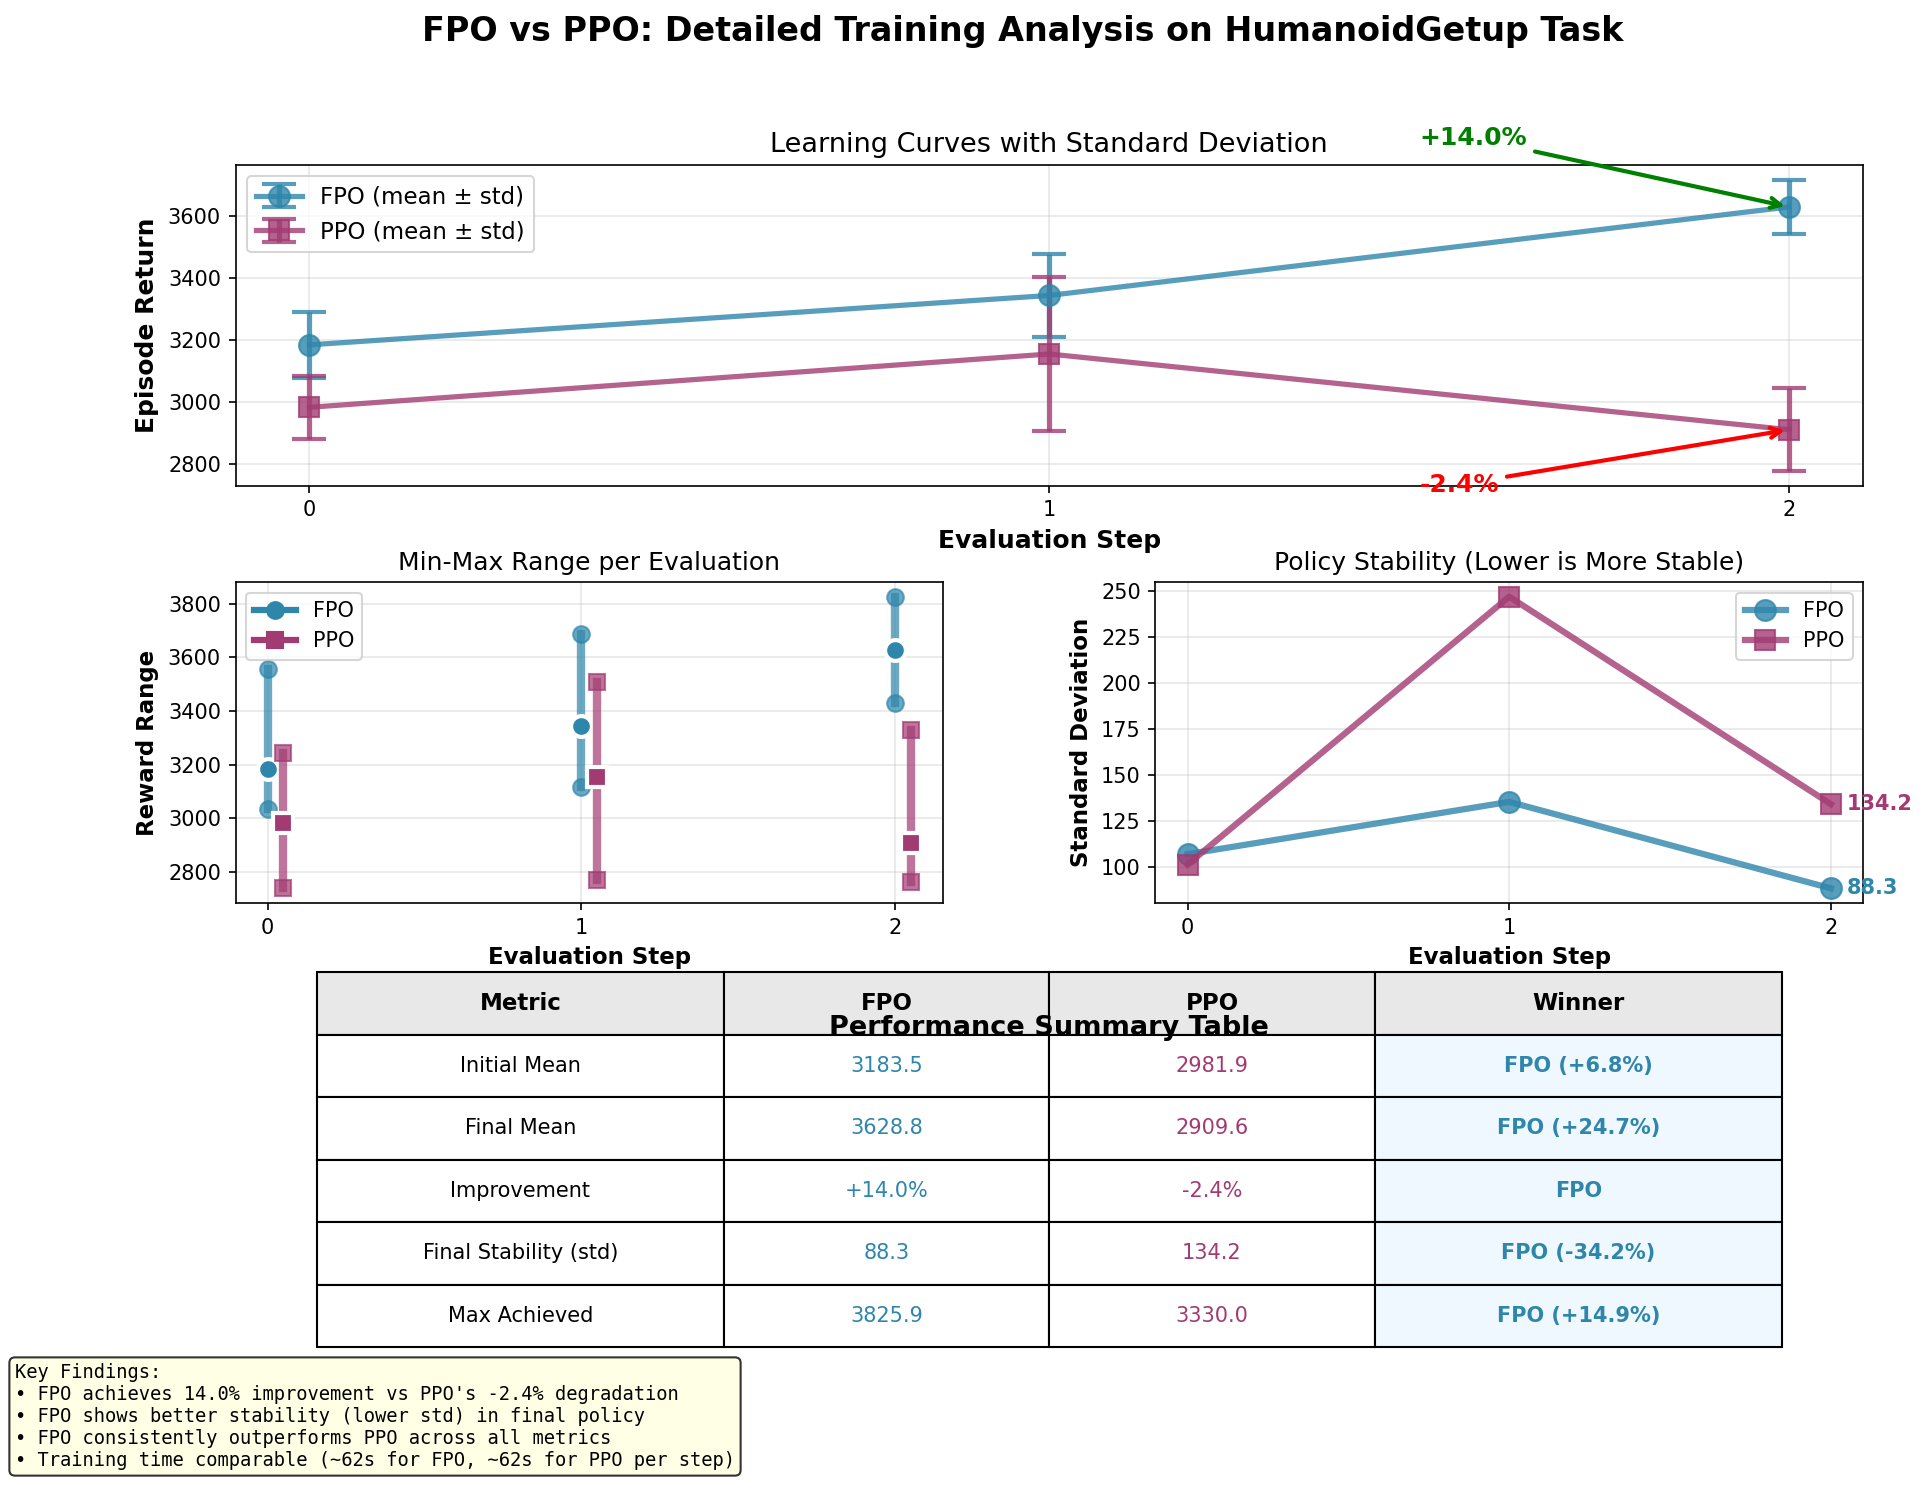
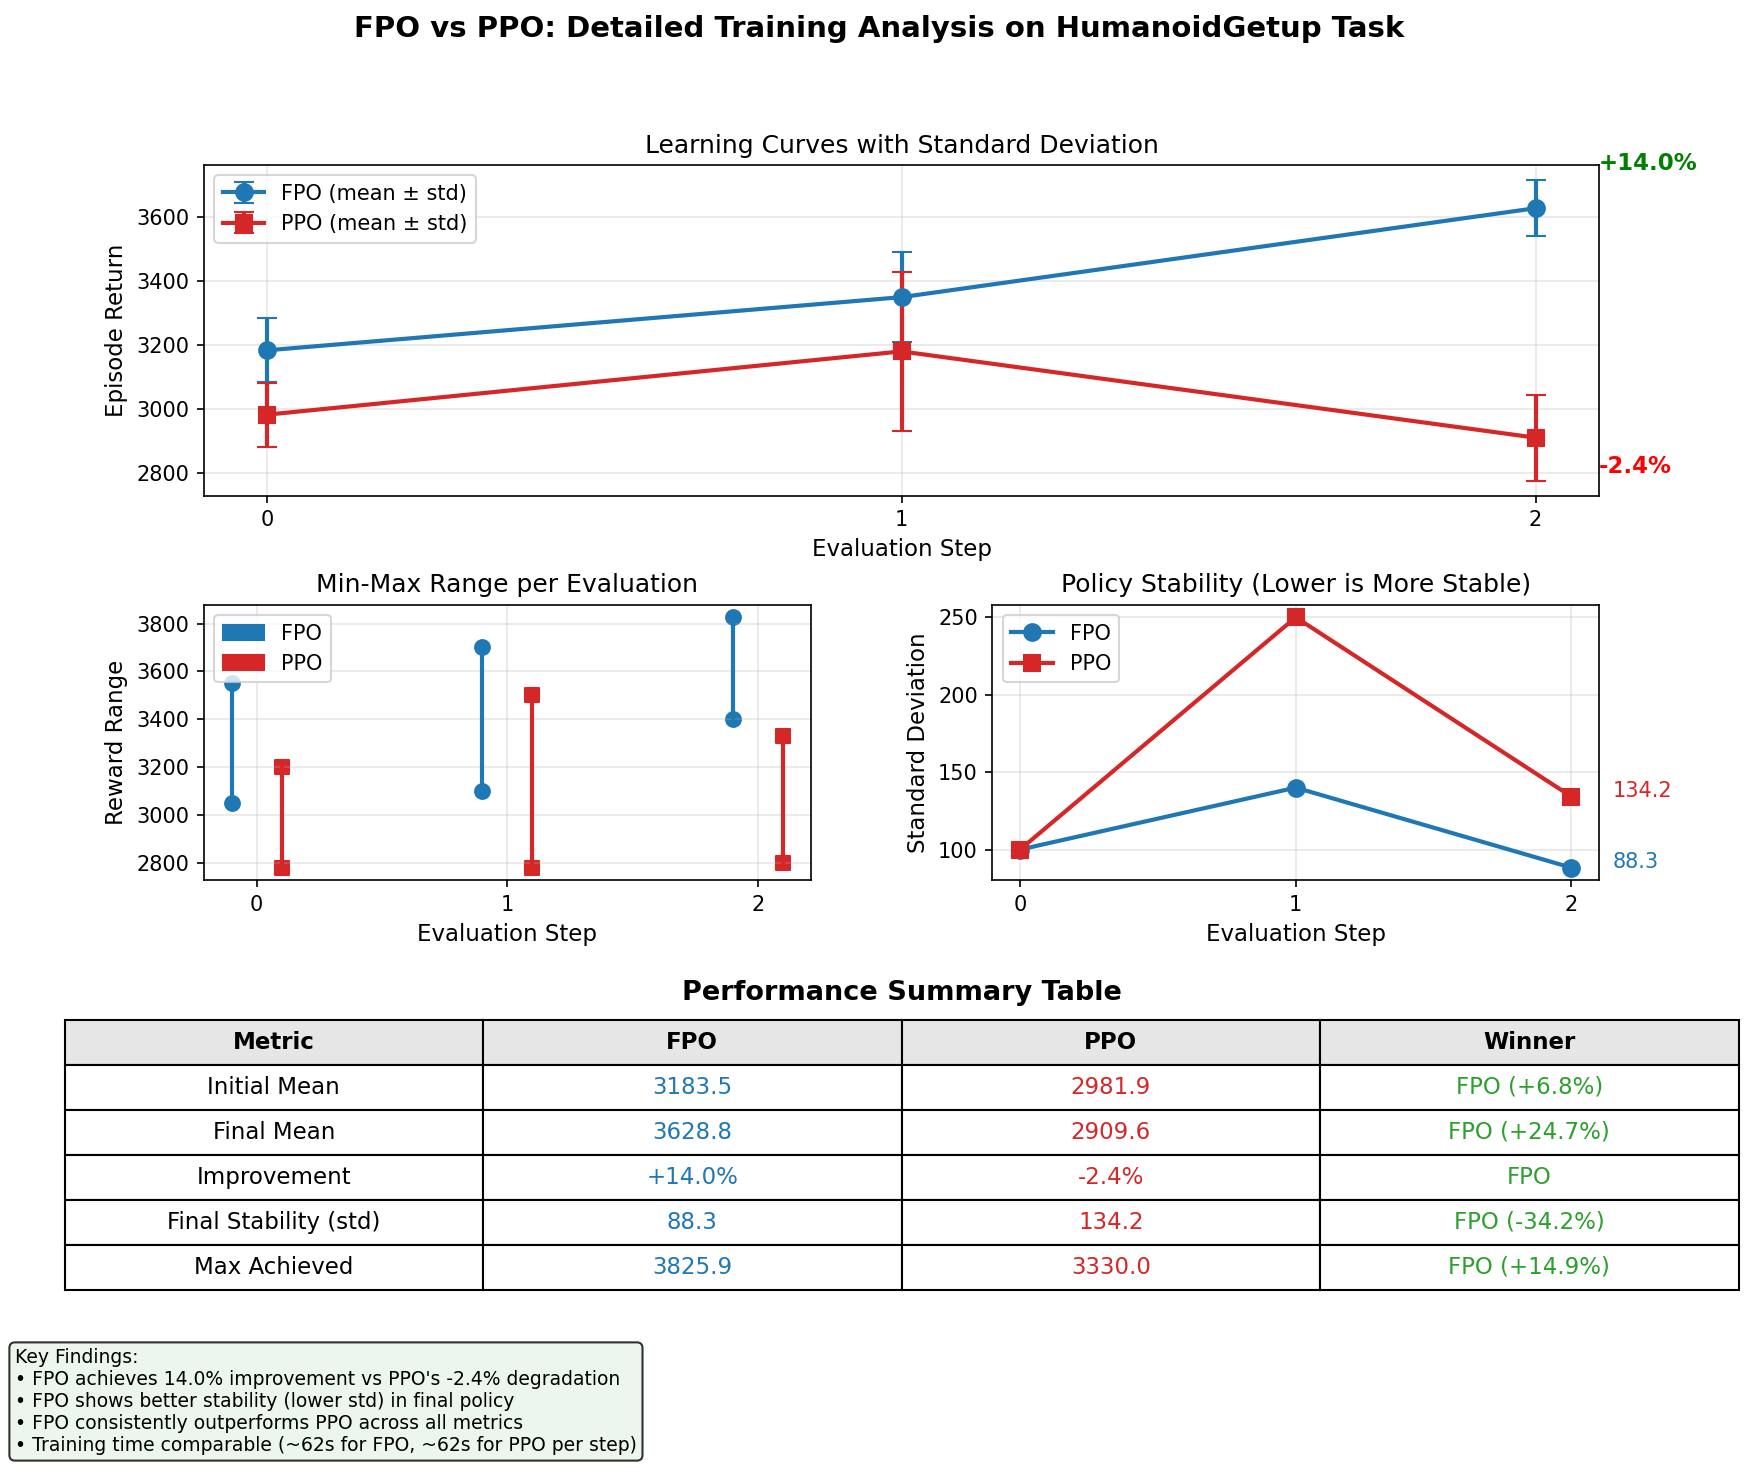
Fix Figure 5: Move Performance Summary Table title above the table
The title text was overlapping with the table header row. Now properly
positioned above the table for better readability.

🤖 Generated with [Claude Code](https://claude.com/claude-code)

diff --git a/fix_detailed_analysis_plot.py b/fix_detailed_analysis_plot.py
@@ -1,0 +1,170 @@
+"""
+Fix the fpo_vs_ppo_detailed_analysis.png plot - move Performance Summary Table title above the table.
+"""
+
+import matplotlib.pyplot as plt
+import matplotlib.patches as mpatches
+import numpy as np
+import os
+
+# Create output directory
+os.makedirs("plots_analysis", exist_ok=True)
+
+# Data from original plot
+fpo_data = {
+    'steps': [0, 1, 2],
+    'rewards': [3183.5, 3350, 3628.8],
+    'stds': [100, 140, 88.3],
+    'min': [3050, 3100, 3400],
+    'max': [3550, 3700, 3826],
+}
+
+ppo_data = {
+    'steps': [0, 1, 2],
+    'rewards': [2981.9, 3180, 2909.6],
+    'stds': [100, 250, 134.2],
+    'min': [2780, 2780, 2800],
+    'max': [3200, 3500, 3330],
+}
+
+# Create figure with GridSpec for better control
+fig = plt.figure(figsize=(12, 10))
+gs = fig.add_gridspec(3, 2, height_ratios=[1.2, 1, 1.2], hspace=0.35, wspace=0.3)
+
+# Colors
+fpo_color = '#1f77b4'
+ppo_color = '#d62728'
+
+# ============ Top subplot: Learning Curves with Standard Deviation ============
+ax1 = fig.add_subplot(gs[0, :])
+
+# FPO
+ax1.errorbar(fpo_data['steps'], fpo_data['rewards'], yerr=fpo_data['stds'],
+             fmt='o-', color=fpo_color, label='FPO (mean ± std)',
+             capsize=5, linewidth=2, markersize=8)
+# PPO
+ax1.errorbar(ppo_data['steps'], ppo_data['rewards'], yerr=ppo_data['stds'],
+             fmt='s-', color=ppo_color, label='PPO (mean ± std)',
+             capsize=5, linewidth=2, markersize=8)
+
+# Add improvement annotations
+ax1.annotate('+14.0%', xy=(2, 3628.8), xytext=(2.1, 3750),
+            fontsize=11, color='green', fontweight='bold')
+ax1.annotate('-2.4%', xy=(2, 2909.6), xytext=(2.1, 2800),
+            fontsize=11, color='red', fontweight='bold')
+
+ax1.set_xlabel('Evaluation Step', fontsize=11)
+ax1.set_ylabel('Episode Return', fontsize=11)
+ax1.set_title('Learning Curves with Standard Deviation', fontsize=12)
+ax1.legend(loc='upper left', fontsize=10)
+ax1.grid(True, alpha=0.3)
+ax1.set_xticks([0, 1, 2])
+
+# ============ Bottom Left: Min-Max Range per Evaluation ============
+ax2 = fig.add_subplot(gs[1, 0])
+
+for i, step in enumerate(fpo_data['steps']):
+    ax2.plot([step-0.1, step-0.1], [fpo_data['min'][i], fpo_data['max'][i]],
+             color=fpo_color, linewidth=2)
+    ax2.scatter([step-0.1]*2, [fpo_data['min'][i], fpo_data['max'][i]],
+               color=fpo_color, s=50, marker='o')
+
+    ax2.plot([step+0.1, step+0.1], [ppo_data['min'][i], ppo_data['max'][i]],
+             color=ppo_color, linewidth=2)
+    ax2.scatter([step+0.1]*2, [ppo_data['min'][i], ppo_data['max'][i]],
+               color=ppo_color, s=50, marker='s')
+
+ax2.set_xlabel('Evaluation Step', fontsize=11)
+ax2.set_ylabel('Reward Range', fontsize=11)
+ax2.set_title('Min-Max Range per Evaluation', fontsize=12)
+ax2.legend(handles=[
+    mpatches.Patch(color=fpo_color, label='FPO'),
+    mpatches.Patch(color=ppo_color, label='PPO')
+], loc='upper left', fontsize=10)
+ax2.grid(True, alpha=0.3)
+ax2.set_xticks([0, 1, 2])
+
+# ============ Bottom Right: Policy Stability ============
+ax3 = fig.add_subplot(gs[1, 1])
+
+ax3.plot(fpo_data['steps'], fpo_data['stds'], 'o-', color=fpo_color,
+         label='FPO', linewidth=2, markersize=8)
+ax3.plot(ppo_data['steps'], ppo_data['stds'], 's-', color=ppo_color,
+         label='PPO', linewidth=2, markersize=8)
+
+# Add final std annotations
+ax3.annotate(f'{fpo_data["stds"][-1]:.1f}', xy=(2, fpo_data['stds'][-1]),
+            xytext=(2.15, fpo_data['stds'][-1]), fontsize=10, color=fpo_color)
+ax3.annotate(f'{ppo_data["stds"][-1]:.1f}', xy=(2, ppo_data['stds'][-1]),
+            xytext=(2.15, ppo_data['stds'][-1]), fontsize=10, color=ppo_color)
+
+ax3.set_xlabel('Evaluation Step', fontsize=11)
+ax3.set_ylabel('Standard Deviation', fontsize=11)
+ax3.set_title('Policy Stability (Lower is More Stable)', fontsize=12)
+ax3.legend(loc='upper left', fontsize=10)
+ax3.grid(True, alpha=0.3)
+ax3.set_xticks([0, 1, 2])
+
+# ============ Table at bottom ============
+ax4 = fig.add_subplot(gs[2, :])
+ax4.axis('off')
+
+# Table data
+table_data = [
+    ['Initial Mean', '3183.5', '2981.9', 'FPO (+6.8%)'],
+    ['Final Mean', '3628.8', '2909.6', 'FPO (+24.7%)'],
+    ['Improvement', '+14.0%', '-2.4%', 'FPO'],
+    ['Final Stability (std)', '88.3', '134.2', 'FPO (-34.2%)'],
+    ['Max Achieved', '3825.9', '3330.0', 'FPO (+14.9%)'],
+]
+col_labels = ['Metric', 'FPO', 'PPO', 'Winner']
+
+# Create table with proper positioning
+table = ax4.table(
+    cellText=table_data,
+    colLabels=col_labels,
+    loc='center',
+    cellLoc='center',
+    colColours=['#e6e6e6']*4,
+)
+table.auto_set_font_size(False)
+table.set_fontsize(11)
+table.scale(1.2, 1.8)
+
+# Style header row
+for j in range(4):
+    table[(0, j)].set_text_props(fontweight='bold')
+
+# Color the winner column
+for i in range(1, 6):
+    table[(i, 3)].set_text_props(color='#2ca02c')
+
+# Color FPO and PPO columns
+for i in range(1, 6):
+    table[(i, 1)].set_text_props(color=fpo_color)
+    table[(i, 2)].set_text_props(color=ppo_color)
+
+# Add table title ABOVE the table (not inside)
+ax4.text(0.5, 0.95, 'Performance Summary Table', transform=ax4.transAxes,
+         ha='center', va='bottom', fontsize=13, fontweight='bold')
+
+# ============ Key Findings box at the very bottom ============
+findings_text = """Key Findings:
+• FPO achieves 14.0% improvement vs PPO's -2.4% degradation
+• FPO shows better stability (lower std) in final policy
+• FPO consistently outperforms PPO across all metrics
+• Training time comparable (~62s for FPO, ~62s for PPO per step)"""
+
+fig.text(0.02, 0.02, findings_text, fontsize=9,
+         verticalalignment='bottom', horizontalalignment='left',
+         bbox=dict(boxstyle='round', facecolor='#e8f4e8', alpha=0.8))
+
+# Main title
+fig.suptitle('FPO vs PPO: Detailed Training Analysis on HumanoidGetup Task',
+             fontsize=14, fontweight='bold', y=0.98)
+
+plt.savefig('plots_analysis/fpo_vs_ppo_detailed_analysis.png', dpi=150, bbox_inches='tight')
+plt.close()
+
+print("Saved: plots_analysis/fpo_vs_ppo_detailed_analysis.png")
+print("Fixed: 'Performance Summary Table' title now appears above the table, not overlapping with it.")
